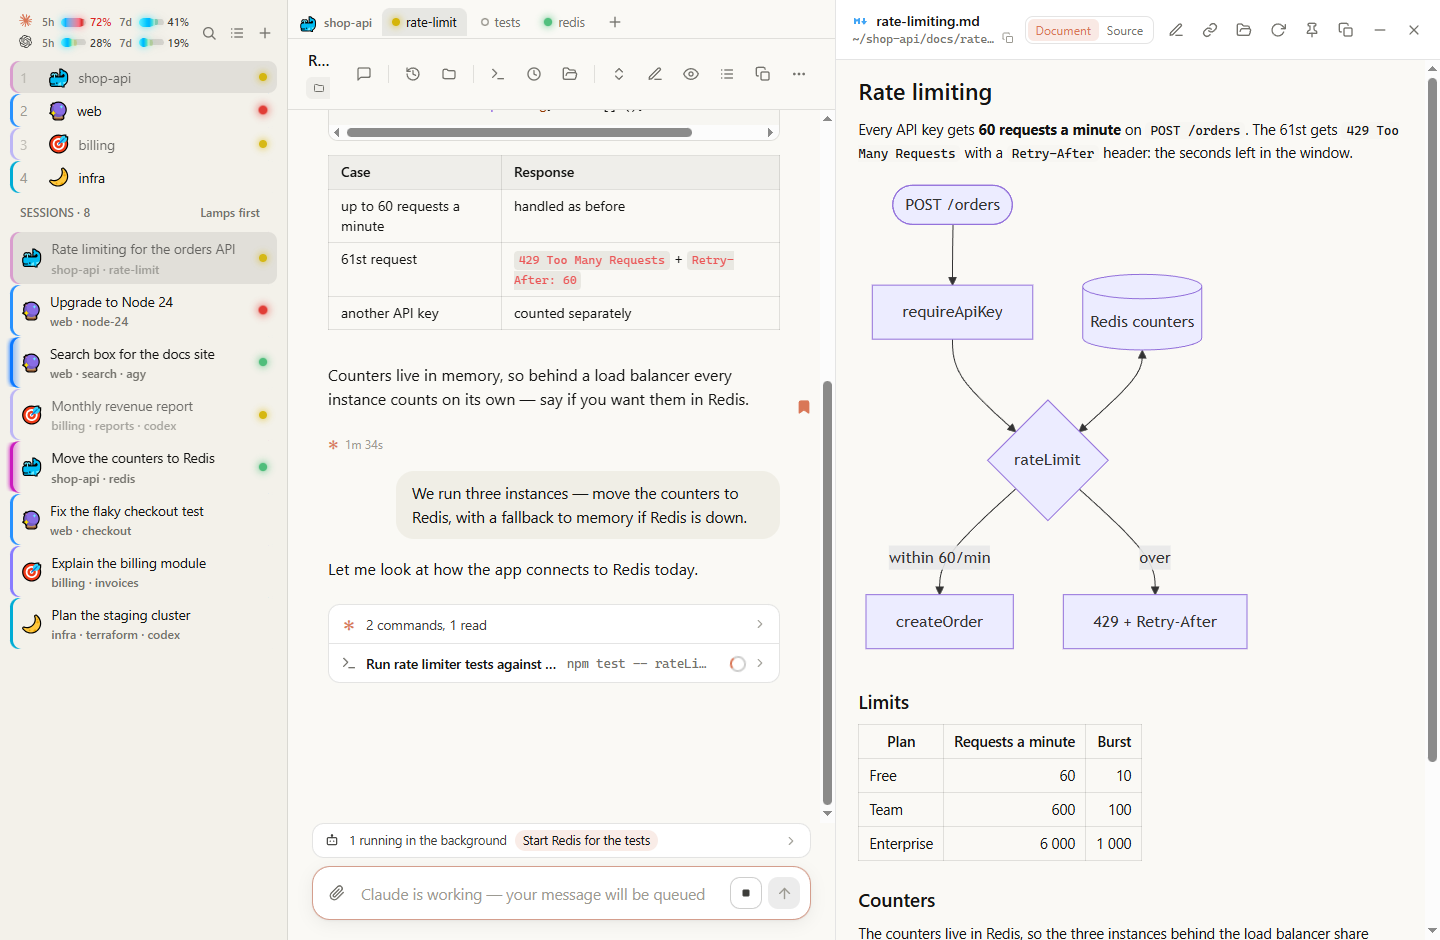
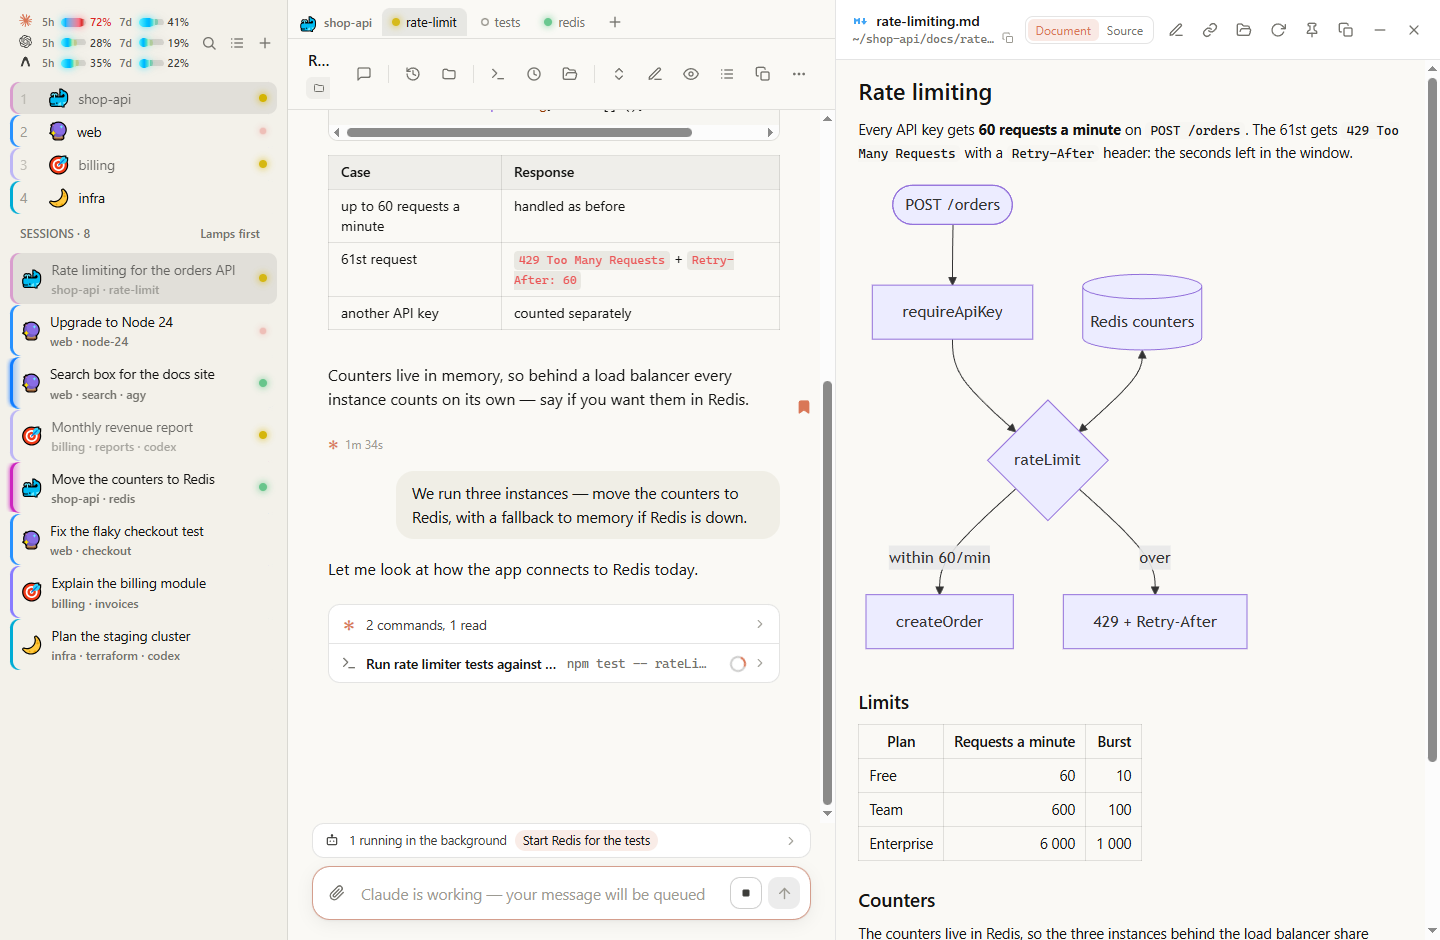
README: show both light and dark intro screenshots, with Claude, Codex and Antigravity usage meters

Changed region(s): [[0.0, 0.0617, 0.1875, 0.7096], [0.1562, 0.0309, 0.1875, 0.1851], [0.1562, 0.4319, 0.1875, 0.4628]]

diff --git a/README.ru.md b/README.ru.md
@@ -6,7 +6,9 @@
 
 Он заменяет разрозненные окна терминала одним удобным приложением в браузере: со списком проектов и вкладок, чтением документов и диффов рядом с диалогом, заметками, закладками и контролем лимитов. В нём одинаково удобно работать за большим монитором, с ноутбука в поездке или с телефона — в том числе удалённо через Cloudflare.
 
-![Claude Code Webview](docs/screenshot.png)
+![Claude Code Webview — светлая тема](docs/screenshot.png)
+
+![Claude Code Webview — тёмная тема](docs/screenshot-dark.png)
 
 ---
 
@@ -17,7 +19,7 @@
 Вместо того чтобы переключаться между разными программами и окнами терминала, вы ведёте все сессии в одном месте:
 
 - **Три агента рядом** — поддерживаются **Claude Code**, **Codex** и **Antigravity CLI (`agy`)**. Для каждого показываются промпты, отформатированные ответы, время размышлений, вызовы инструментов (`Bash`, `Read`, `Edit`, `Write`, субагенты) с диффами и выводом. Длинные цепочки вызовов по умолчанию свёрнуты в одну компактную строку (`4 commands, 1 read, 6 edits`), но при желании раскрываются целиком.
-- **Живое управление сессией** — пишите промпты прямо со страницы, прикрепляйте или вставляйте из буфера скриншоты, пользуйтесь автодополнением слеш-команд (`/`), задавайте быстрые вопросы без записи в историю (`/btw`), откатывайте диалог и код (`/rewind`), меняйте модель (`/model`) и проверяйте серверы `/mcp`.
+- **Живое управление сессией** — пишите промпты прямо со страницы, кликайте по вопросам с `👉` в ответах агента для быстрой вставки цитатой в поле ввода, прикрепляйте или вставляйте из буфера скриншоты, пользуйтесь автодополнением слеш-команд (`/`), задавайте быстрые вопросы без записи в историю (`/btw`), откатывайте диалог и код (`/rewind`), меняйте модель (`/model`) и проверяйте серверы `/mcp`.
 - **Интерактивные вопросы поверх поля ввода** — когда агент в терминале ждёт выбора варианта или подтверждения (`AskUserQuestion`, доверие к папке, разрешение на команду), варианты появляются обычными кнопками над полем ввода. Карточку вопроса можно свернуть в одну строку, чтобы спокойно перечитать диалог.
 - **Переключение между Claude Code и `ccproxy` (`Claude GPT`)** — если подключить обёртку для работы через GPT-прокси (`--claude-gpt-command`), новые вкладки можно запускать как в обычном Claude Code, так и в режиме **Claude GPT**, а уже идущую сессию — на лету перезапускать из одного режима в другой без потери истории.
 - **Обычная командная строка** — любая вкладка `herdr`, где открыт shell, `nvim`, тесты или `htop`, работает прямо в браузере как живой терминал (`xterm.js`).
@@ -36,7 +38,7 @@
 - **Лампы состояния и напоминания** — по цвету индикатора сразу видно, где агент работает, где ждёт вашего ответа, а где уже закончил и ответ ещё не прочитан. Если вы открыли готовый ответ, но хотите вернуться к задаче позже, нажмите кнопку с часами или **`Ctrl+Q`** — синяя лампа останется гореть на всех устройствах, пока вы сами её не снимете.
 - **Скрытие неактивных задач без закрытия** — временно ненужные воркспейсы и вкладки можно убрать из списка иконкой перечёркнутого глаза, не останавливая сами процессы. Как только агент внутри закончит работу или задаст вопрос, воркспейс сам появится снова.
 - **История и восстановление закрытых сессий** — кнопка истории над сессией показывает все прошлые разговоры текущей вкладки и список **закрытых вкладок `herdr`**. Любую закрытую вкладку можно открыть для чтения или вернуть обратно в воркспейс кнопкой **Restore**. А после перезагрузки компьютера кнопка **Continue** в один клик возобновит в пустой вкладке ровно тот диалог, который шёл в ней раньше.
-- **Лимиты и нагрузка системы всегда перед глазами** — в шапке боковой панели отображаются шкалы расхода за 5 часов и за неделю сразу для **Claude** и для **ChatGPT / Codex** (зелёный запас, когда вы укладываетесь по времени, и красная отметка при перерасходе). В правом верхнем углу видны загрузка **CPU**, **RAM** и **GPU** — по клику открывается живой список самых тяжёлых процессов.
+- **Лимиты и нагрузка системы всегда перед глазами** — в шапке боковой панели отображаются три строки шкал расхода за 5 часов и за неделю — для **Claude**, **Codex / ChatGPT** и **Antigravity CLI (`agy`)** (зелёный запас, когда вы укладываетесь по времени, и красная отметка при перерасходе). В правом верхнем углу видны загрузка **CPU**, **RAM** и **GPU** — по клику открывается живой список самых тяжёлых процессов.
 
 ![Терминал вкладки herdr в тёмной теме](docs/terminal.png)
 
@@ -138,14 +140,15 @@ node bin/claude-code-webview.js
 
 ## Настройка лимитов и режима `ccproxy` (`Claude GPT`)
 
-### Свежие данные о лимитах Claude и ChatGPT / Codex
+### Свежие данные о лимитах Claude, Codex и Antigravity CLI
 
 - **Claude** — по умолчанию лимиты читаются из `~/.claude.json`, но Claude Code обновляет их там нечасто. Чтобы видеть актуальные цифры после каждого ответа, добавьте в свою команду `statusline` сохранение поля `rate_limits` в `~/.claude-code-webview/rate-limits.json`:
   ```bash
   input=$(cat); echo "$input" | jq -c '.rate_limits // empty' > ~/.claude-code-webview/rate-limits.json
   ```
 - **ChatGPT / Codex** — лимиты Codex подхватываются автоматически, а при использовании GPT-шлюза можно дополнительно передать путь к файлу со снимком квоты через `--chatgpt-usage-file <путь>` (JSON вида `{ "at": <мс>, "status": 200, "limits": { "five_hour": { "used_percentage": 28, "resets_at": <сек> }, "seven_day": { ... } } }`).
-- **Модель и контекст от внешнего шлюза** — statusline шлюза может писать текущую модель, размер окна и расход токенов в `~/.claude-code-webview/session-status/<session-uuid>.json` (`{ "at": <мс>, "model": "<id>", "contextTokens": 64000, "contextWindow": 1000000, "effort": "high" }`).
+- **Antigravity CLI (`agy`)** — `agy` передаёт своей команде `statusLine` на stdin JSON с текущей моделью и остатком квоты пулов (`gemini-*` и `3p-*`, окна `5h` и `weekly`). Достаточно сохранять `{ "model": ..., "quota": ... }` в `~/.claude-code-webview/agy-statusline.json`, чтобы в шапке списка сессий появилась третья строка лимитов.
+- **Модель и контекст сессии** — statusline шлюза или `agy` может также писать текущую модель, effort, размер окна и расход токенов в `~/.claude-code-webview/session-status/<session-uuid>.json` (`{ "at": <мс>, "model": "<id>", "contextTokens": 64000, "contextWindow": 1000000, "effort": "high" }`).
 
 ### Запуск через `ccproxy` (`Claude GPT`)
 

diff --git a/README.md b/README.md
@@ -6,7 +6,9 @@ A web interface for working with **[Claude Code](https://code.claude.com)**, **C
 
 Instead of juggling separate terminal windows, you get a single browser app with your workspaces and tabs on the left, live agent conversations in the middle, and documents, diffs, notes, and bookmarks on the right. It feels like a native desktop app on a large monitor, adapts cleanly to a phone screen, and works remotely when placed behind Cloudflare.
 
-![Claude Code Webview](docs/screenshot.png)
+![Claude Code Webview — light theme](docs/screenshot.png)
+
+![Claude Code Webview — dark theme](docs/screenshot-dark.png)
 
 ---
 
@@ -17,7 +19,7 @@ Instead of juggling separate terminal windows, you get a single browser app with
 Run and follow all your coding sessions side by side:
 
 - **Three coding agents** — supports **Claude Code**, **Codex**, and **Antigravity CLI (`agy`)**. Each session shows your prompts, rendered Markdown replies, thinking durations, and expandable tool calls (`Bash`, `Read`, `Edit`, `Write`, subagents) with diffs and command output. Long runs of tool calls fold into a single summary line (`4 commands, 1 read, 6 edits`) by default and can be expanded anytime.
-- **Drive sessions from the browser** — type prompts directly into running sessions, paste or attach screenshots, use `/` command autocomplete, ask side questions without polluting the transcript (`/btw`), rewind code and conversation turns (`/rewind`), switch models (`/model`), and inspect `/mcp` servers.
+- **Drive sessions from the browser** — type prompts directly into running sessions, click any `👉` question in an answer to quote it into the input box, paste or attach screenshots, use `/` command autocomplete, ask side questions without polluting the transcript (`/btw`), rewind code and conversation turns (`/rewind`), switch models (`/model`), and inspect `/mcp` servers.
 - **Interactive terminal prompts above the input box** — when an agent waits for a choice or confirmation in the terminal (`AskUserQuestion`, folder trust, command permission), the options appear as buttons right above the input box. Click the card header to fold it into a single line while reading the conversation.
 - **Switch between Claude Code and `ccproxy` (`Claude GPT`)** — pass `--claude-gpt-command` to keep standard Claude Code and a GPT-gateway launcher available together. Start new tabs in either mode, or restart a running session from one into the other without losing conversation history.
 - **Live shell terminals** — any `herdr` tab running a shell, `nvim`, a test runner, or `htop` opens as a live `xterm.js` terminal right in the browser.
@@ -36,7 +38,7 @@ When you run sessions inside [herdr](https://herdr.dev), the viewer mirrors your
 - **Status lamps and reminders** — colored lamps show whether an agent is working, waiting for your input, or finished with an unread reply. Opening a finished session clears its lamp across all devices; press the clock button or **`Ctrl+Q`** to keep a blue lamp lit until you come back to that task.
 - **Hide idle workspaces without closing them** — click the crossed-out eye on an idle workspace or tab to declutter the sidebar while keeping its processes running. As soon as an agent inside finishes a turn or asks a question, the workspace automatically reappears.
 - **Session history and restoring closed tabs** — the history button above a session lists earlier conversations from the same tab alongside **closed `herdr` tabs**. Open any past conversation to read it, or click **Restore** to reopen a closed tab in its workspace. After a system reboot, **Continue** resumes the last conversation of an idle tab in one click.
-- **Rate limits and system load at a glance** — the sidebar header shows 5-hour and weekly usage bars for both **Claude** and **ChatGPT / Codex** (green while under pace, red when running ahead of the clock). The top-right corner shows live **CPU**, **RAM**, and **GPU** usage — click any meter to inspect the busiest processes.
+- **Rate limits and system load at a glance** — the sidebar header shows three rows of 5-hour and weekly usage bars — for **Claude**, **Codex / ChatGPT**, and **Antigravity CLI (`agy`)** (green while under pace, red when running ahead of the clock). The top-right corner shows live **CPU**, **RAM**, and **GPU** usage — click any meter to inspect the busiest processes.
 
 ![A herdr shell terminal in the dark theme](docs/terminal.png)
 
@@ -143,7 +145,8 @@ On iPhone, add the page to the Home Screen (Safari: Share → Add to Home Screen
   input=$(cat); echo "$input" | jq -c '.rate_limits // empty' > ~/.claude-code-webview/rate-limits.json
   ```
 - **ChatGPT / Codex** — Codex usage is read automatically; if you also use a GPT gateway, pass `--chatgpt-usage-file <path>` pointing to a JSON snapshot (`{ "at": <ms>, "status": 200, "limits": { "five_hour": { "used_percentage": 28, "resets_at": <sec> }, "seven_day": { ... } } }`).
-- **Gateway model and context telemetry** — a gateway statusline can write live session metadata to `~/.claude-code-webview/session-status/<session-uuid>.json` (`{ "at": <ms>, "model": "<id>", "contextTokens": 64000, "contextWindow": 1000000, "effort": "high" }`).
+- **Antigravity CLI (`agy`)** — `agy` passes its state and remaining pool quotas (`gemini-*` and `3p-*`, `5h` and `weekly`) to its `statusLine` command on stdin. Have your `statusLine` command write `{ "model": ..., "quota": ... }` to `~/.claude-code-webview/agy-statusline.json` to display the third usage row in the sidebar header.
+- **Session model and context telemetry** — a gateway or `agy` statusline can also write live session metadata to `~/.claude-code-webview/session-status/<session-uuid>.json` (`{ "at": <ms>, "model": "<id>", "contextTokens": 64000, "contextWindow": 1000000, "effort": "high" }`).
 
 ### Running Claude Code through a GPT gateway (`ccproxy`)
 
